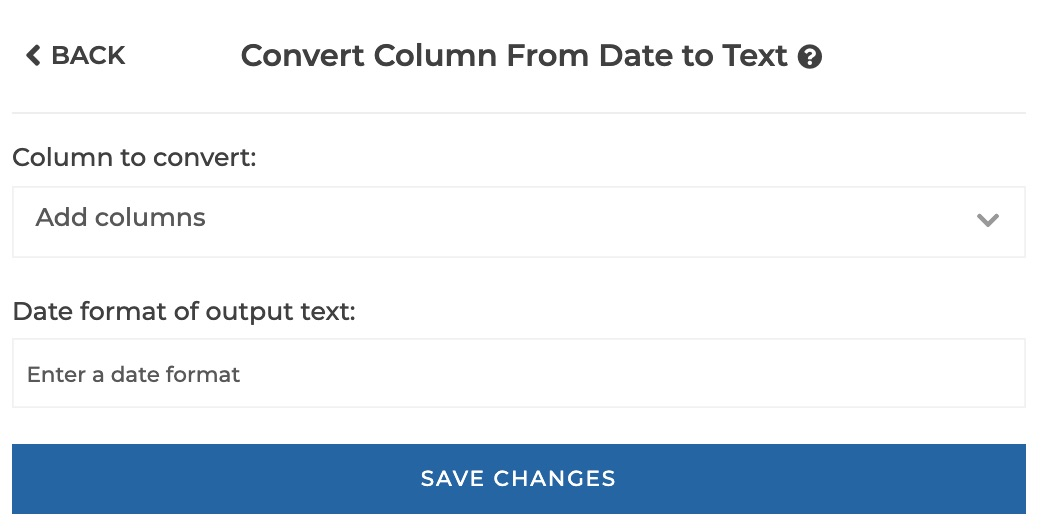
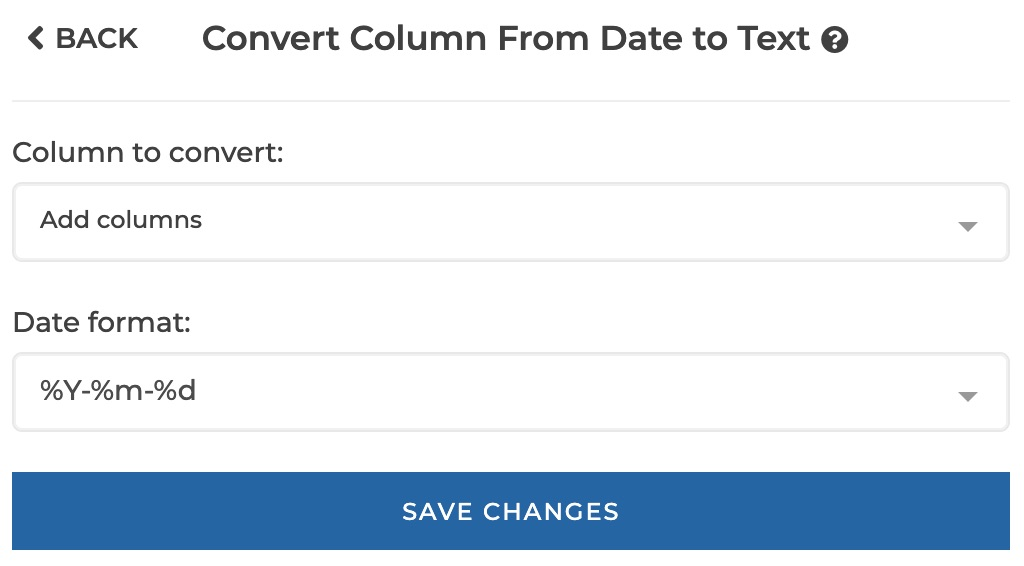
fromdate :: update documentation

diff --git a/docs/_docs/user-interface/fromdate.md b/docs/_docs/user-interface/fromdate.md
@@ -21,12 +21,18 @@ You can use this step to cast a date column to a text column.
 
 <img src="../../img/docs/user-interface/fromdate_step_form.jpg" width="350" />
 
+<img src="../../img/docs/user-interface/fromdate_step_form_presets.jpg" width="350" /></br>
+
+<img src="../../img/docs/user-interface/fromdate_step_form_custom.jpg" width="350" /></br>
+
 - `Column to convert:`: the date column to be converted to text
 
-- `Date format:`: here you can specify how the text will be formatted.
+- `Date format:`: either 'Custom' (to allow you to enter a custom format in the
+  `custom format` parameter below), or a preset (e.g. "%d-%m-%Y")
 
-Please see the [Mongo documentation](https://docs.mongodb.com/manual/reference/operator/aggregation/dateFromString/index.html#datefromstring-format-specifiers)
-for Mongo supported formats.
+- `Custom format:`: only displayed and required if you selected 'custom' in the
+  `Date format` parameter. Please see the [Mongo documentation](https://docs.mongodb.com/manual/reference/operator/aggregation/dateFromString/index.html#datefromstring-format-specifiers)
+  for Mongo supported formats.
 
 #### Example
 
